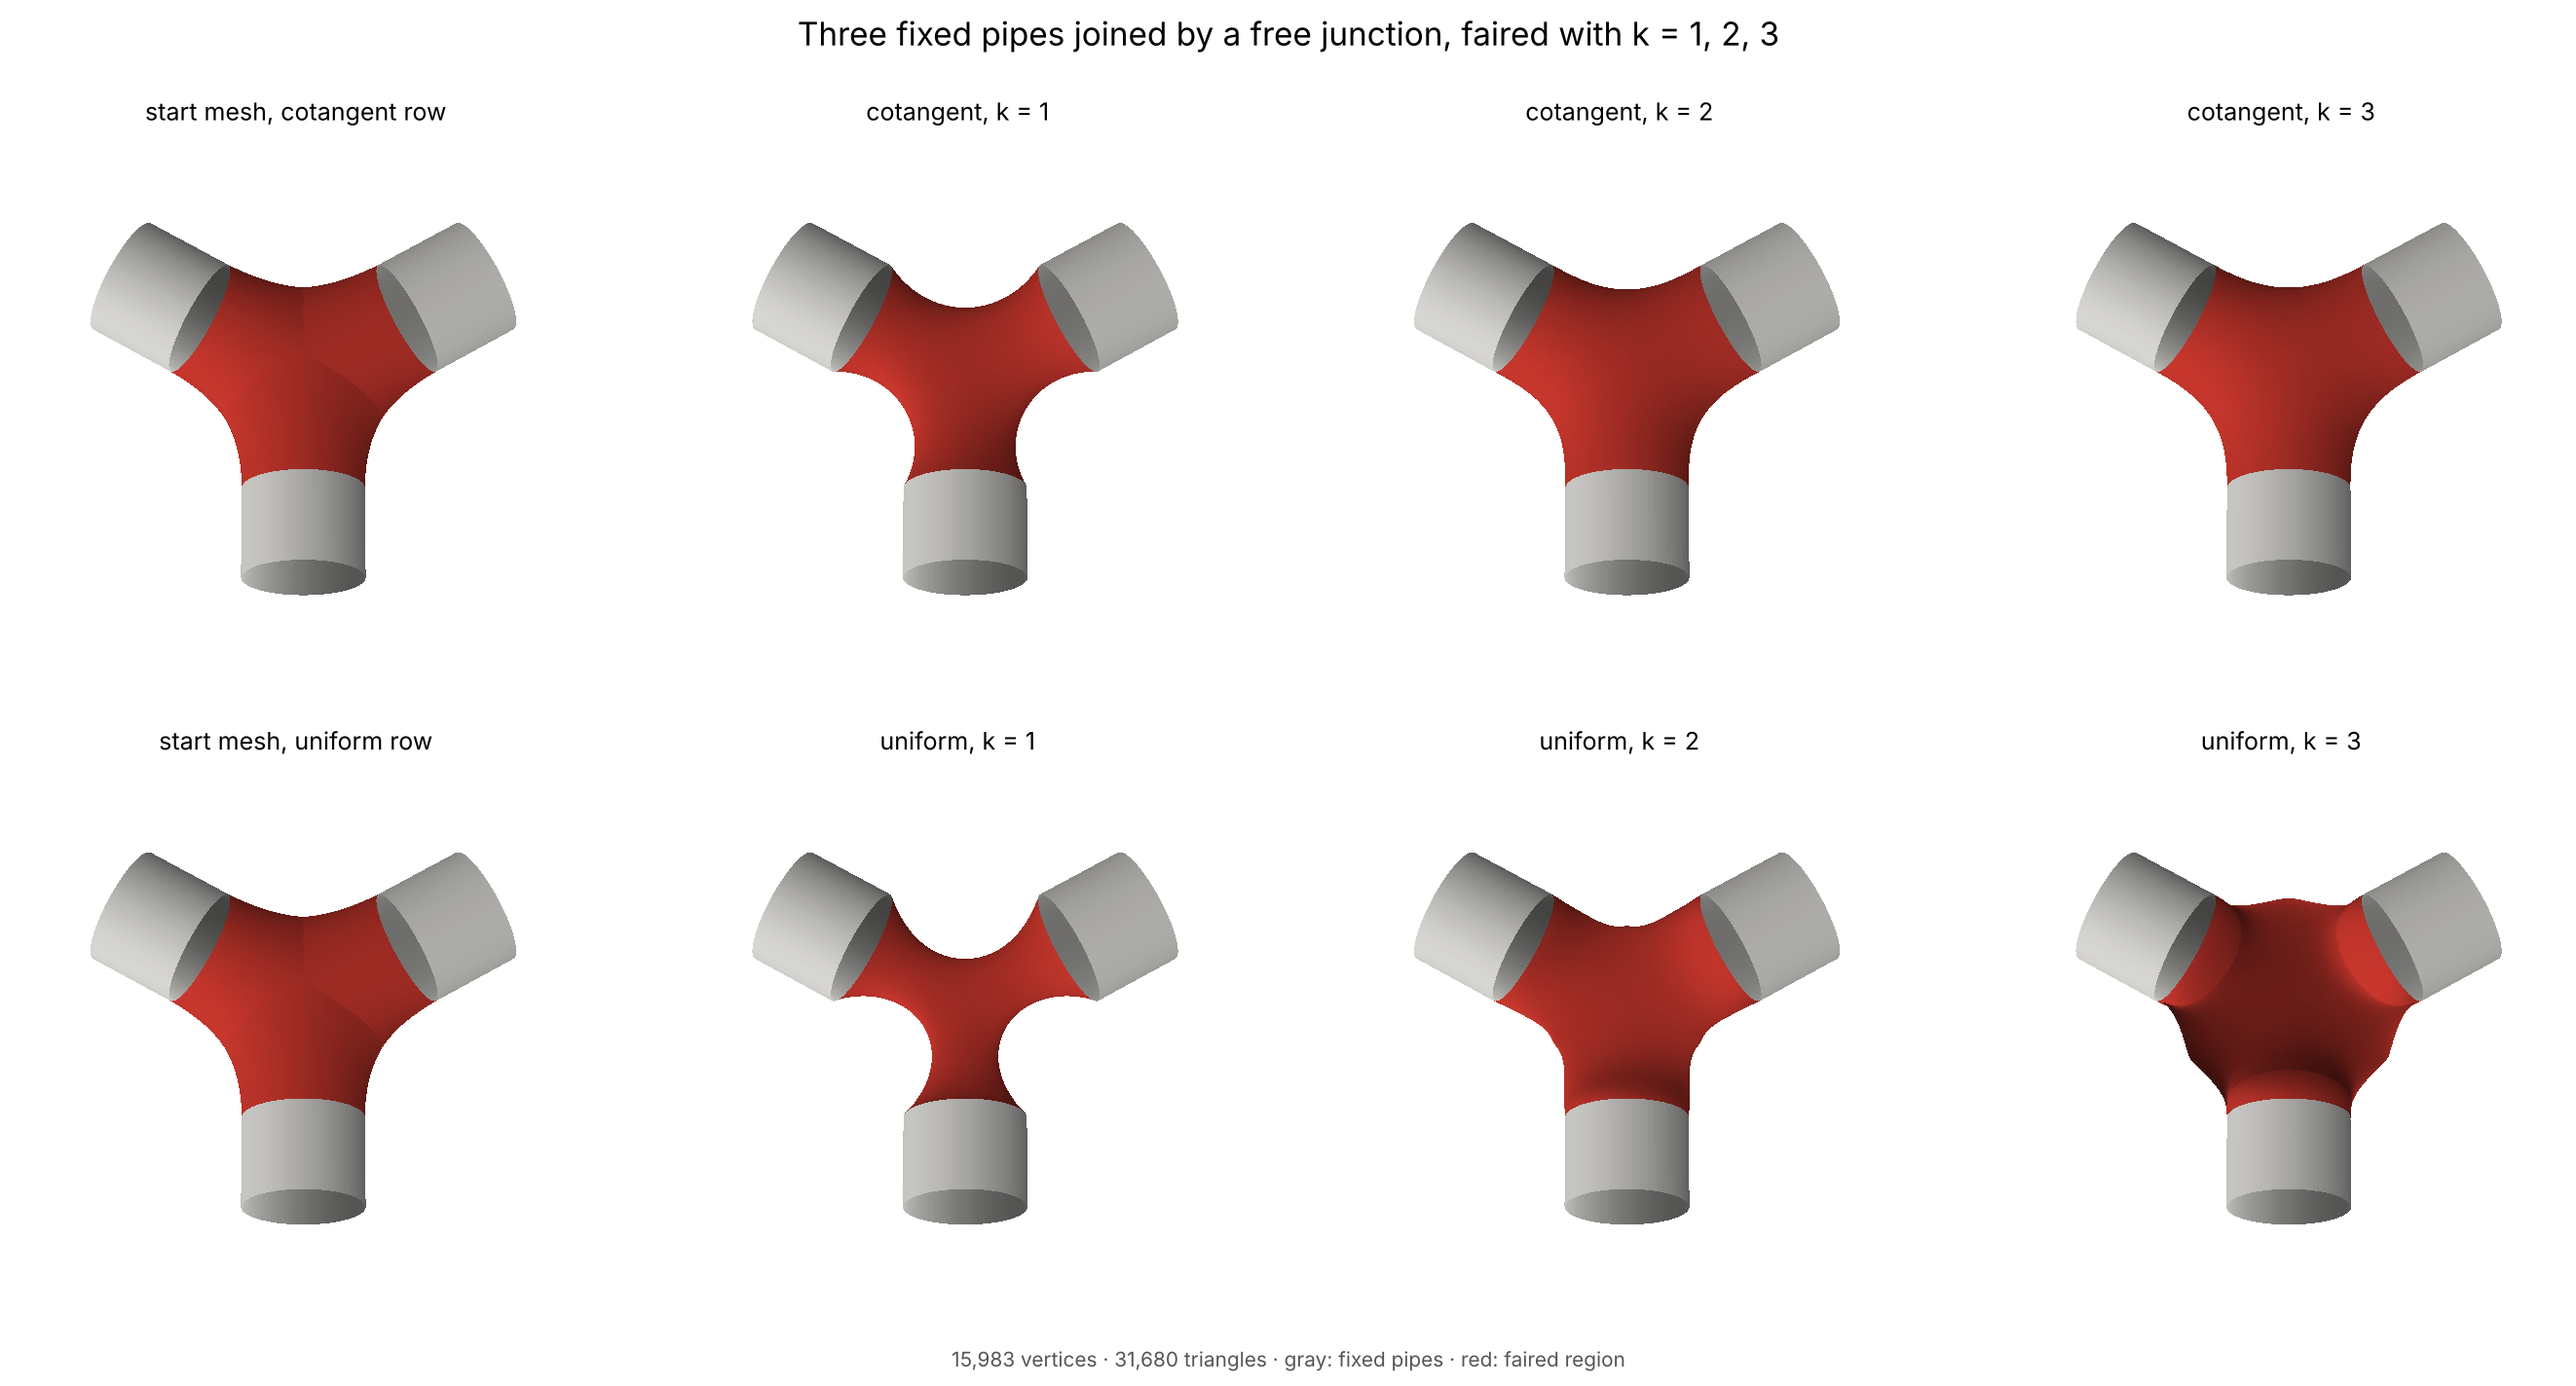
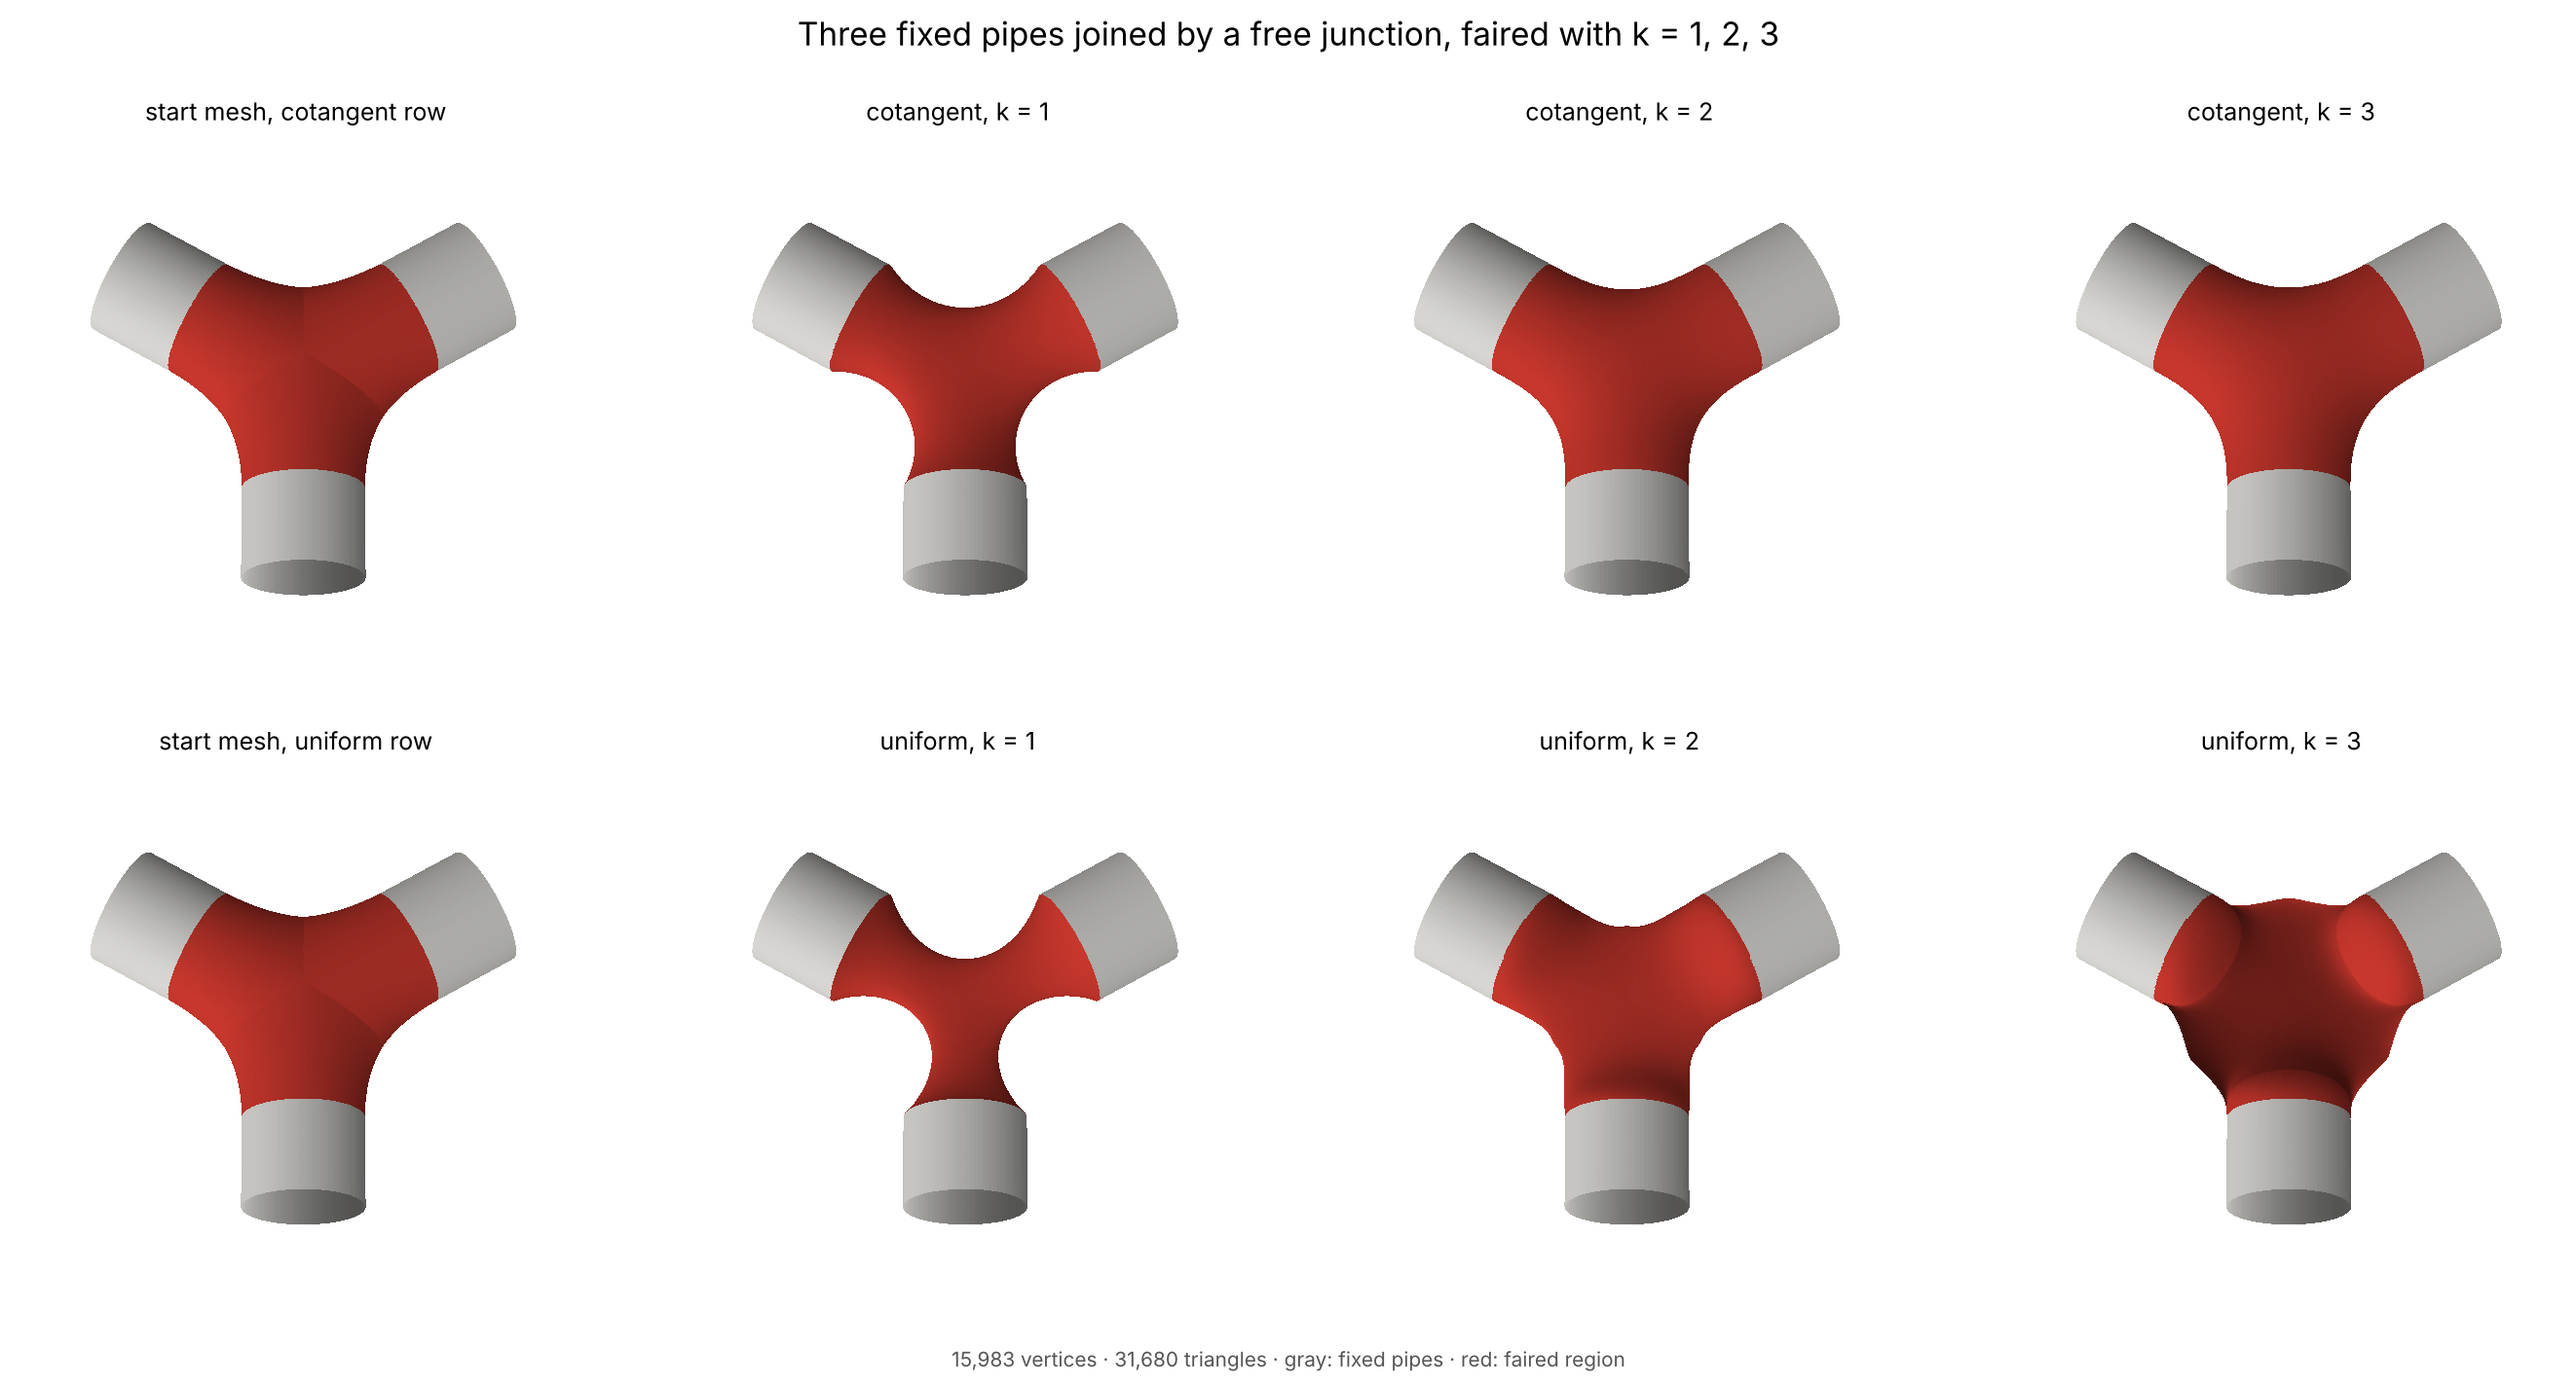
Render the three-pipe figure as one depth-sorted collection
Two plot_trisurf calls are painted one after the other, so the back wall of
each gray pipe was drawn over the red junction and looked like a gap.

Claude-Session: https://claude.ai/code/session_013R5gVJzYfPDCXsokLYRTFC

diff --git a/examples/04_three_pipes.py b/examples/04_three_pipes.py
@@ -21,6 +21,8 @@ import matplotlib
 matplotlib.use("Agg")
 import matplotlib.pyplot as plt
 import numpy as np
+from matplotlib.colors import LightSource
+from mpl_toolkits.mplot3d.art3d import Poly3DCollection
 from scipy.spatial import cKDTree
 
 from fairing import viz
@@ -201,9 +203,21 @@ def figure_three_pipes():
 
 
 def _draw(ax, W, F, free_face, frame):
-    for faces, color in ((F[~free_face], "#d9d8d4"), (F[free_face], "#c8372d")):
-        ax.plot_trisurf(W[:, 0], W[:, 1], W[:, 2], triangles=faces, color=color,
-                        shade=True, linewidth=0, antialiased=False)
+    """Draw fixed and free triangles as one collection, shaded like ``plot_trisurf``.
+
+    Matplotlib depth-sorts triangles only within a collection and paints whole
+    collections one after the other. With the gray and red parts in two
+    ``plot_trisurf`` calls, the back wall of each gray pipe was painted over the
+    red junction, which looked like a dark gap at every joint.
+    """
+    T = W[F]
+    normals = np.cross(T[:, 1] - T[:, 0], T[:, 2] - T[:, 0])
+    normals /= np.linalg.norm(normals, axis=1, keepdims=True)
+    base = np.where(free_face[:, None], matplotlib.colors.to_rgb("#c8372d"),
+                    matplotlib.colors.to_rgb("#d9d8d4"))
+    shade = LightSource(azdeg=225, altdeg=19.4712).shade_normals(normals, fraction=1.0)
+    colors = base * (0.3 + 0.7 * shade[:, None])            # matplotlib's own shading mix
+    ax.add_collection3d(Poly3DCollection(T, facecolors=colors, linewidths=0, antialiased=False))
     viz._set_equal_aspect(ax, frame)
     ax.view_init(70, -90)
     ax.set_axis_off()
